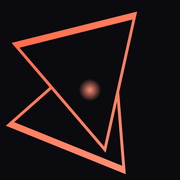
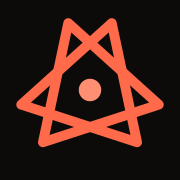
🎨 feat(brand): give Cinder a real mark
- draw the merkaba still, held 36° off-rest so it can never resolve into a
  hexagram, mirror-symmetric about the vertical so it stands up straight
- build every raster from one SVG source via scripts/build-brand.py; the
  shipped icons were screen captures of the ambient Merkaba mid-rotation and
  arrived clipped and off-center
- stroke 3.5/64 is measured, not picked: compared at 16px against the vault
  floor and white, it is the heaviest weight that keeps a readable void
  around the ember core
- add the light-surface variant and the horizontal lockup (Inter outlined,
  no font dependency) for Stripe's icon and logo slots
- put the vault floor behind the site icons and add a properly inset
  maskable icon; a transparent favicon disappeared on a white tab strip and
  a full-bleed maskable lost its points to the launcher crop
- correct theme-color and the manifest to --color-ink #0d0b0a; #0a0a0f is
  the exact cold near-black app.css names as the wrong one

Changed region(s): [[0.0278, 0.0556, 0.9167, 0.9722], [0.4167, 0.4167, 0.5833, 0.5833]]

diff --git a/src/app.html b/src/app.html
@@ -5,10 +5,13 @@
 		<meta name="viewport" content="width=device-width, initial-scale=1" />
 		<meta name="text-scale" content="scale" />
 
-		<link rel="icon" href="%sveltekit.assets%/favicon.png" />
+		<!-- Sized so a 16px tab strip downscales the 32 instead of the 64: the mark
+	     was measured at both and the 32 keeps a readable void around the ember. -->
+		<link rel="icon" type="image/png" sizes="32x32" href="%sveltekit.assets%/favicon-32.png" />
+		<link rel="icon" type="image/png" sizes="64x64" href="%sveltekit.assets%/favicon.png" />
 		<link rel="apple-touch-icon" href="%sveltekit.assets%/apple-touch-icon.png" />
 		<link rel="manifest" href="%sveltekit.assets%/manifest.webmanifest" />
-		<meta name="theme-color" content="#0a0a0f" />
+		<meta name="theme-color" content="#0d0b0a" />
 
 		<!-- Default social card. Per-page titles/descriptions override via <svelte:head>. -->
 		<meta property="og:type" content="website" />

diff --git a/scripts/build-brand.py b/scripts/build-brand.py
@@ -1,0 +1,221 @@
+#!/usr/bin/env python3
+"""
+Build every Cinder brand raster from the one SVG source, and build the
+horizontal lockup from an outlined Inter so nothing downstream needs the font.
+
+    python3 scripts/build-brand.py            # dry run, prints what it would write
+    python3 scripts/build-brand.py --apply    # write
+
+Source of truth:
+    static/brand/cinder-mark.svg   ember on transparent, for dark surfaces
+
+Everything else in static/brand/ and the site's own favicon set are OUTPUTS,
+including the light variant: it is the dark mark with the theme's own light
+swap applied, so the two can never drift.
+Fix the SVG or this script; never hand-edit a PNG.
+
+Why the site icons are regenerated here: the shipped favicon/apple-touch/PWA
+icons were screen captures of the AMBIENT Merkaba.svelte mid-rotation, so they
+arrived clipped and off-center. They are the mark now.
+"""
+
+import subprocess
+import sys
+from pathlib import Path
+
+ROOT = Path(__file__).resolve().parent.parent
+BRAND = ROOT / "static" / "brand"
+STATIC = ROOT / "static"
+INTER = Path.home() / "Library" / "Fonts" / "Inter_24pt-SemiBold.ttf"
+
+APPLY = "--apply" in sys.argv
+
+# Stripe's branding settings (docs.stripe.com/get-started/account/branding) take
+# JPG or PNG, under 512 KB, at least 128x128. 512 is the largest square the rest
+# of this repo already ships, so the icon set tops out there rather than inventing
+# a size nothing consumes.
+STRIPE_ICONS = [128, 256, 512]
+
+# The site's own set. Sizes come from app.html and manifest.webmanifest — if you
+# add one there, add it here, not by hand in a graphics app.
+SITE_ICONS = {
+    "favicon-32.png": 32,
+    "favicon.png": 64,
+    "apple-touch-icon.png": 180,
+    "icon-192.png": 192,
+    "icon-512.png": 512,
+}
+
+
+def write(path: Path, data: bytes | str) -> None:
+    if not APPLY:
+        print(f"  would write {path.relative_to(ROOT)} ({len(data)} bytes)")
+        return
+    path.write_bytes(data.encode() if isinstance(data, str) else data)
+    print(f"  wrote {path.relative_to(ROOT)} ({len(data)} bytes)")
+
+
+INK = "#0d0b0a"  # --color-ink, the vault floor
+
+
+def render(svg: Path, size: int, out: Path, bg: str | None = None, inset: float = 0.0) -> None:
+    """rsvg-convert keeps the stroke crisp at small sizes; magick softens it.
+
+    bg fills the canvas instead of leaving it transparent. inset is the fraction
+    of the box left empty on every side — a maskable icon gets cropped to a
+    circle by the launcher, so its art has to live well inside the square.
+    """
+    art = round(size * (1 - 2 * inset))
+    cmd = ["rsvg-convert", "-w", str(art), "-h", str(art)]
+    if bg:
+        cmd += ["-b", bg]
+    png = subprocess.run(cmd + [str(svg)], check=True, capture_output=True).stdout
+
+    if art != size:
+        from io import BytesIO
+
+        from PIL import Image
+
+        canvas = Image.new("RGBA", (size, size), bg or (0, 0, 0, 0))
+        art_img = Image.open(BytesIO(png)).convert("RGBA")
+        off = (size - art) // 2
+        canvas.alpha_composite(art_img, (off, off))
+        buf = BytesIO()
+        canvas.save(buf, "PNG")
+        png = buf.getvalue()
+
+    write(out, png)
+
+
+def to_light(svg: str) -> str:
+    """The theme's own light swap, applied to a mark.
+
+    app.css flips ember #ff6b4a to #e8502a under prefers-color-scheme: light,
+    and small ember shapes go to ember-ink #c23d1a because that is the pair that
+    clears WCAG AA on warm paper. Same two substitutions, same reason.
+    """
+    body = svg.replace("#ff6b4a", "#e8502a").replace("#ff8f73", "#c23d1a")
+    note = (
+        "\n  <!-- GENERATED by scripts/build-brand.py from cinder-mark.svg."
+        " Do not hand-edit. -->"
+    )
+    return body.replace("<title>Cinder</title>", "<title>Cinder</title>" + note, 1)
+
+
+def wordmark(mark_svg: str) -> str:
+    """The 'Cinder' lockup, glyphs converted to paths so the SVG is portable.
+
+    The mark's geometry is LIFTED from cinder-mark.svg rather than repeated here.
+    A second copy of those coordinates is a copy that drifts, and the stroke
+    weight already had to be changed in two places once.
+    """
+    from fontTools.pens.svgPathPen import SVGPathPen
+    from fontTools.ttLib import TTFont
+
+    font = TTFont(INTER)
+    glyphs, cmap = font.getGlyphSet(), font.getBestCmap()
+    upm, hmtx = font["head"].unitsPerEm, font["hmtx"]
+    cap = font["OS/2"].sCapHeight
+
+    track = -0.005 * upm  # a hair tight, so six letters read as one word
+    x, paths = 0.0, []
+    for ch in "Cinder":
+        name = cmap[ord(ch)]
+        pen = SVGPathPen(glyphs)
+        glyphs[name].draw(pen)
+        if d := pen.getCommands():
+            paths.append((x, d))
+        x += hmtx[name][0] + track
+    advance = x - track  # the trailing letter-space is not part of the word
+
+    # Cap height 26 units against a 64-unit mark: the word sits inside the mark's
+    # optical height instead of matching its full extent, which is what stops a
+    # wordmark from shouting over the thing it is naming.
+    cap_units, gap, baseline = 26.0, 12.0, 45.0
+    scale = cap_units / cap
+    left = 58.45 + gap  # the mark's right edge, stroke included
+    width = round(left + advance * scale + 2)
+
+    # Everything from the first <g> to the closing </svg>: the mark, verbatim.
+    art = mark_svg[mark_svg.index("  <g fill=\"none\"") : mark_svg.rindex("</svg>")].rstrip()
+
+    body = "\n      ".join(
+        f'<path transform="translate({left + px * scale:.3f} {baseline:.3f}) '
+        f'scale({scale:.6f} {-scale:.6f})" d="{d}"/>'
+        for px, d in paths
+    )
+    return f"""<svg xmlns="http://www.w3.org/2000/svg" viewBox="0 0 {width} 64" width="{width}" height="64" role="img" aria-label="Cinder">
+  <title>Cinder</title>
+  <!--
+    THE HORIZONTAL LOCKUP — the mark plus the word, for Stripe's non-square
+    "Logo" slot and anywhere else a wide surface would strand a square icon.
+
+    GENERATED by scripts/build-brand.py. Edit the script, never this file.
+
+    The word is Inter SemiBold converted to outlines, tracked -0.005em, cap
+    height 26 against the mark's 64, baseline aligned to the mark's center. No
+    font is required to render it.
+  -->
+{art}
+  <g fill="#f1ece4">
+      {body}
+  </g>
+</svg>
+"""
+
+
+def main() -> None:
+    if not APPLY:
+        print("DRY RUN — pass --apply to write\n")
+
+    dark, light = BRAND / "cinder-mark.svg", BRAND / "cinder-mark-light.svg"
+    if not dark.exists():
+        sys.exit(f"missing source: {dark}")
+
+    print("light variant:")
+    write(light, to_light(dark.read_text()))
+    if not APPLY and not light.exists():
+        sys.exit("\nlight variant does not exist yet — rerun with --apply")
+
+    print("lockup:")
+    lockup = BRAND / "cinder-lockup.svg"
+    mark_svg = dark.read_text()
+    write(lockup, wordmark(mark_svg))
+    # The light lockup is the same swap the two marks make: ember darkens, the
+    # center goes to ember-ink, and the word flips from paper-white to near-black.
+    write(
+        BRAND / "cinder-lockup-light.svg",
+        wordmark(mark_svg)
+        .replace("#ff6b4a", "#e8502a")
+        .replace("#ff8f73", "#c23d1a")
+        .replace("#f1ece4", "#241a15"),
+    )
+
+    print("stripe icons (>=128px, PNG, <512KB):")
+    for size in STRIPE_ICONS:
+        render(dark, size, BRAND / f"cinder-icon-{size}.png")
+        render(light, size, BRAND / f"cinder-icon-light-{size}.png")
+
+    print("stripe logo (the wide lockup, rasterized at 4x the 64-unit box):")
+    if APPLY or lockup.exists():
+        png = subprocess.run(
+            ["rsvg-convert", "-h", "256", str(lockup)], check=True, capture_output=True
+        ).stdout
+        write(BRAND / "cinder-logo-256.png", png)
+
+    # Site icons get the vault floor behind them. A transparent favicon inherits
+    # whatever the browser or launcher paints, and an ember outline on a white
+    # tab strip is the one place this mark disappears.
+    print("site icons (regenerated from the mark, on the vault floor):")
+    for name, size in SITE_ICONS.items():
+        render(dark, size, STATIC / name, bg=INK)
+
+    # Maskable: Android crops to a circle inscribed in the middle 80%, so the
+    # art is inset 20% on every side. Without this the mark's six points are
+    # sliced off on any launcher that rounds the icon.
+    print("maskable icon:")
+    render(dark, 512, STATIC / "icon-maskable-512.png", bg=INK, inset=0.20)
+
+
+if __name__ == "__main__":
+    main()

diff --git a/README.md b/README.md
@@ -89,6 +89,8 @@ Cinder's docs are task-oriented — pick the one that matches what you want to d
 | Deploy my own copy to AWS | [Deployment](docs/deployment.md) |
 | Call the API directly | [API reference](docs/api.md) |
 | Understand or extend the look | [Theme & design system](docs/theme.md) |
+| Use the mark, or rebuild the icons | [`static/brand/`](static/brand/), built by [`scripts/build-brand.py`](scripts/build-brand.py) |
+| Take payments through this account | [Stripe account cleanup](docs/stripe-account-cleanup.md) |
 | Contribute | [Contributing](CONTRIBUTING.md) |
 
 ## Tech stack
